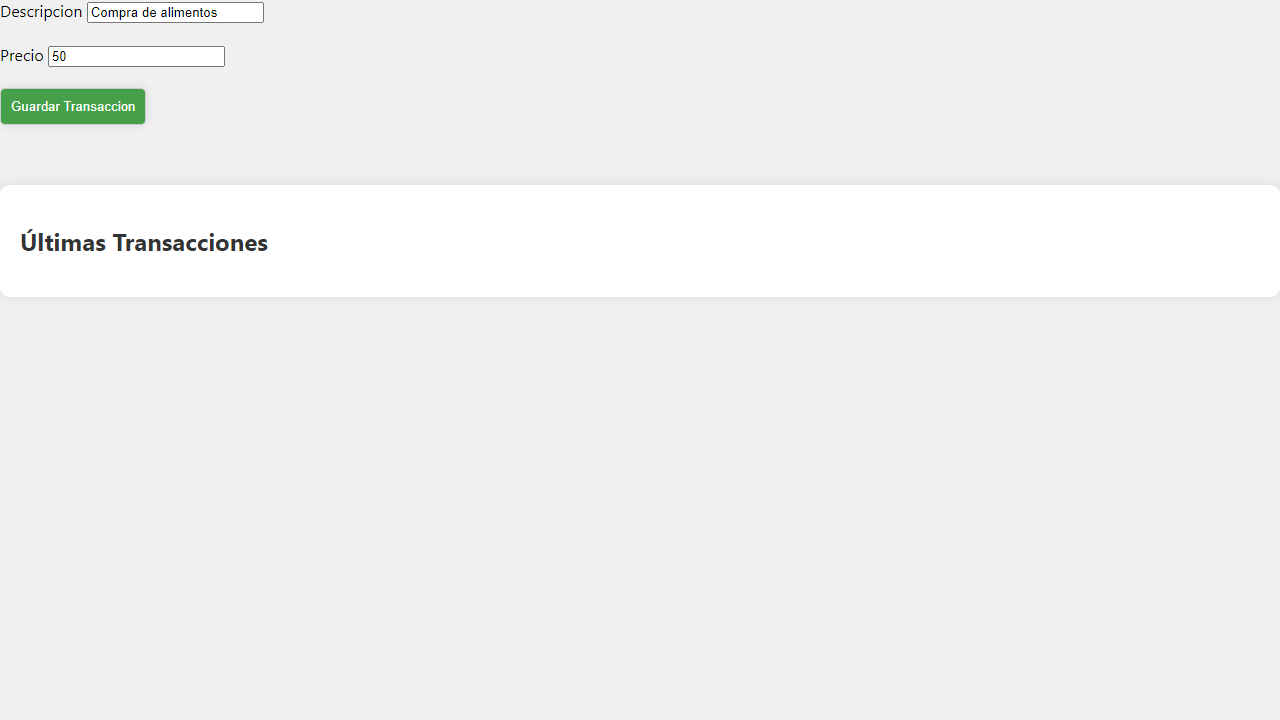
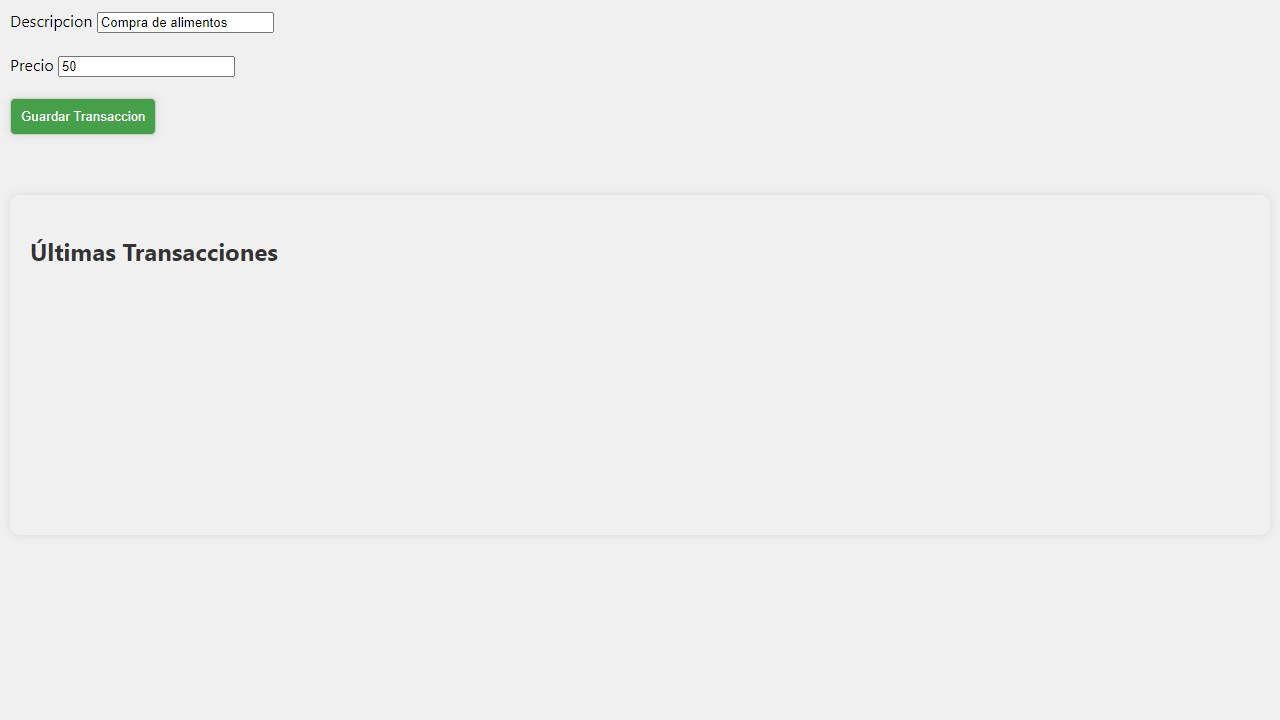
cambios minimos front

Changed region(s): [[0.0, 0.0, 0.1875, 0.2139], [0.0, 0.3056, 0.2188, 0.3667]]

diff --git a/Frontend/scripts.js b/Frontend/scripts.js
@@ -4,8 +4,21 @@ const mensajeElement = document.getElementById("mensaje");
 
 formElement.addEventListener("submit", (event) => {
     event.preventDefault();
-    let Descripcion = document.getElementById("Descripcion").value;
-    let Precio = document.getElementById("Precio").value;
+    let Descripcion = document.getElementById("Descripcion").value.trim();
+    let Precio = document.getElementById("Precio").value.trim();
+
+    // Validación de campos vacíos
+    if (!Descripcion || !Precio) {
+        alert("Todos los campos son obligatorios");
+        return;
+    }
+
+    // Validación de campo Precio para permitir solo números
+    if (isNaN(Precio)) {
+        alert("El campo Precio solo puede contener números");
+        return;
+    }
+
     let transaccion = { Descripcion: Descripcion, Precio: Precio };
     let transaccionJson = JSON.stringify(transaccion);
 
@@ -21,6 +34,14 @@ formElement.addEventListener("submit", (event) => {
         console.log(data);
         // Mostrar mensaje de éxito
         mensajeElement.innerText = data;
+        mensajeElement.classList.remove("error");
+        mensajeElement.classList.add("exito");
+
+        // Ocultar mensaje después de 5 segundos
+        setTimeout(() => {
+            mensajeElement.innerText = '';
+            mensajeElement.classList.remove("exito");
+        }, 5000);
 
         // Después de enviar la transacción, obtener las últimas transacciones
         fetch('https://ingsw3backend-5a663973aa85.herokuapp.com/lasttransactions')
@@ -39,5 +60,21 @@ formElement.addEventListener("submit", (event) => {
         })
         .catch(error => console.error('Error al obtener las últimas transacciones:', error));
     })
-    .catch(error => console.error('Error:', error));
+    .catch(error => {
+        console.error('Error:', error);
+        mensajeElement.innerText = 'Error al insertar la transacción';
+        mensajeElement.classList.remove("exito");
+        mensajeElement.classList.add("error");
+    });
+});
+
+// Validar el campo Precio para permitir solo números
+document.getElementById("Precio").addEventListener("input", (event) => {
+    const input = event.target;
+    const value = input.value;
+    
+    if (isNaN(value)) {
+        alert("El campo Precio solo puede contener números");
+        input.value = value.replace(/\D/g, '');
+    }
 });

diff --git a/Frontend/style.css b/Frontend/style.css
@@ -1,14 +1,18 @@
 body {
-    font-family: 'Segoe UI', Tahoma, Geneva, Verdana, sans-serif; /* Cambiar la fuente a una que transmita más suavidad */
-    background-color: #f0f0f0; /* Color de fondo suave */
+    font-family: 'Segoe UI', Tahoma, Geneva, Verdana, sans-serif;
+    background-color: #f0f0f0; 
     margin: 0;
     padding: 10px;
 }
 
 .container {
     max-width: 800px;
-    margin: 20px auto; /* Mover el contenedor hacia abajo */
+    margin: 20px auto; 
     padding: 20px;
+}
+
+.input {
+    border-radius: 3px;
 }
 
 input[type="text"],
@@ -23,30 +27,52 @@ button {
 
 input[type="text"]:focus,
 button:focus {
-    box-shadow: 0 0 10px rgba(0, 0, 0, 0.1); /* Añadir una suave onda al enfocar */
+    box-shadow: 0 0 10px rgba(0, 0, 0, 0.1); 
+}
+/* style.css */
+#mensaje {
+    display: none;
+    margin-top: 10px;
+    padding: 10px;
+    border-radius: 5px;
+}
+
+#mensaje.exito {
+    display: block;
+    color: green;
+    width: 400px;
+    margin-left: 35%;
+    background-color: #4caf50;
+    border: 2px solid green;
+}
+
+#mensaje.error {
+    display: block;
+    color: red;
+    border: 2px solid red;
 }
 
 button {
-    background-color: #4caf50; /* Color de botón */
+    background-color: #4caf50; 
     color: white;
     cursor: pointer;
 }
 
 button:hover {
-    background-color: #45a049; /* Color de botón en hover */
+    background-color: #45a049; 
 }
 
 #ultimasTransacciones {
-    background-color: #f0f0f0; /* Fondo de la sección de últimas transacciones */
+    background-color: #ebcece; 
     padding: 20px;
-    height: 300px;
+    height: 250px;
+    margin-top: 50px;
     border-radius: 10px;
     box-shadow: 0 0 10px rgba(0, 0, 0, 0.1);
-    margin-top: 50px; /* Ajustar margen superior para ubicar más abajo */
 }
 
 h2 {
-    color: #333; /* Color de título */
+    color: #333; 
 }
 
 ul {

diff --git a/Frontend/index.html b/Frontend/index.html
@@ -11,12 +11,12 @@
         <form id="GuardarTransaccion">
             <div>
                 <label for="Descripcion">Descripcion</label>
-                <input id="Descripcion" placeholder="Agrega una descripcion"> 
+                <input class="input" id="Descripcion" placeholder="Agrega una descripcion"> 
             </div>
             <br>
             <div>
                 <label for="Precio">Precio</label>
-                <input id="Precio" placeholder="Agrega un precio"> 
+                <input class="input" id="Precio" placeholder="Agrega un precio"> 
             </div>
             <br>
             <div>
@@ -25,12 +25,13 @@
         </form>
     </div>
 
+    <div id="mensaje"></div>
+
     <div id="ultimasTransacciones">
         <h2>Últimas Transacciones</h2>
         <ul id="listaTransacciones"></ul>
     </div>
 
-    <div id="mensaje"></div>
 
     <script src="scripts.js"></script> 
 </body>

diff --git a/Frontend/integration_test.js b/Frontend/integration_test.js
@@ -8,7 +8,7 @@ Scenario('Enviar transacción y verificar últimas transacciones', async ({ I })
   await I.fillField('#Precio', '50');
   await I.click('Guardar Transaccion');
 
-  await I.wait(5);
+  await I.wait(15);
   await I.see('Transacción insertada correctamente');
 
   await I.see('Compra de alimentos: $50', '#listaTransacciones');

diff --git a/Backend/index.js b/Backend/index.js
@@ -4,8 +4,6 @@ import cors from 'cors';
 
 const app = express();
 app.use(cors());
-
-// Middleware para permitir el uso de JSON en las solicitudes
 app.use(express.json());
 
 app.get('/', (req, res) => {

diff --git a/README.md b/README.md
@@ -1,1 +1,10 @@
 # IntegradorINGSW3
+
+- Si queres correr el proyecto localmente, levantar el proyecto con un docker compose up.
+
+- Cada vez que haces commit se despliega todo el proyecto en Heroku. Podes acceder al front mediante este link https://ingsw3frontend-e0243388a7b1.herokuapp.com/ 
+
+- Para correr los test unitarios debes entrar a la carpeta de backend y escribir 'npx mocha Tests.js'
+
+- Para correr los test codeceptjs debes entrar a la carpeta frontend y escribir 'npx codeceptjs run'
+
